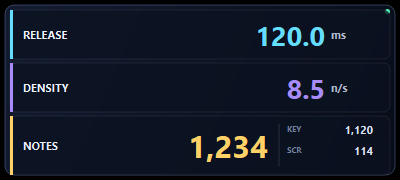
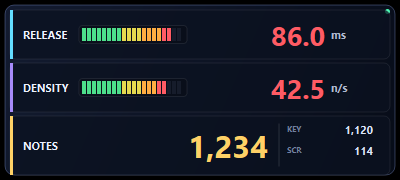
ゲージの粒の大きさを揃えた

diff --git a/html/stats_detail.html b/html/stats_detail.html
@@ -110,7 +110,7 @@
         .meter {
             display: grid;
             grid-template-columns: repeat(var(--segment-count), minmax(0, 1fr));
-            gap: 2px;
+            gap: 1px;
             width: 100%;
             height: 18px;
             padding: 2px;
@@ -214,14 +214,15 @@
     <script>
         let ws = null;
         const meterConfigs = {
-            release: { segments: 12, max: 120 },
-            density: { segments: 10, max: 50 }
+            release: { segments: 20, max: 100 },
+            density: { segments: 20, max: 50 }
         };
 
         function bandColor(kind, value) {
             if (kind === 'release') {
-                if (value <= 60) return '#4ddf8b';
-                if (value < 80) return '#e6d94f';
+                if (value <= 40) return '#4ddf8b';
+                if (value <= 60) return '#e6d94f';
+                if (value <= 80) return '#ffad42';
                 return '#ff5b64';
             }
             if (value <= 20) return '#4ddf8b';
